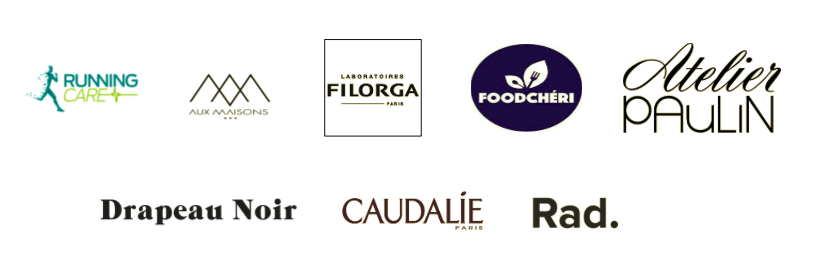
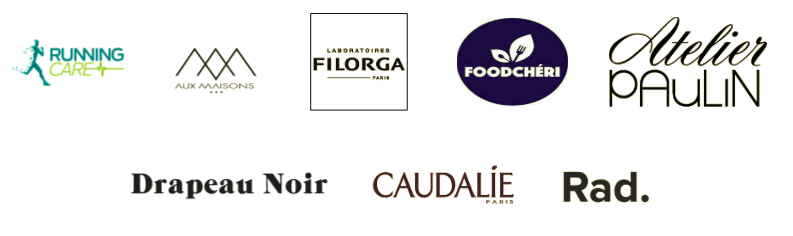
Ajout de l'image

diff --git a/index.html b/index.html
@@ -67,8 +67,11 @@
         <div class="row justify-content-center mb-5">
               <div class="col-md-7 heading-section ftco-animate text-center">
     <h2 class="mb-4">ILS NOUS ONT FAIT CONFIANCE</h2>
-    <p>Toutes les PME avec lesquelles nous avons collaboré ont été satisfaites et ont recommandé nos services</p>
+    <p>Toutes les PME avec lesquelles nous avons collaboré ont été satisfaites et ont recommandé nos services</p> 
+                  
     </div>
+                              <img src="images/partenaires.png" align="center"/>
+
         </div>
         <div class="row ftco-animate">
           <div class="col-md-12">
